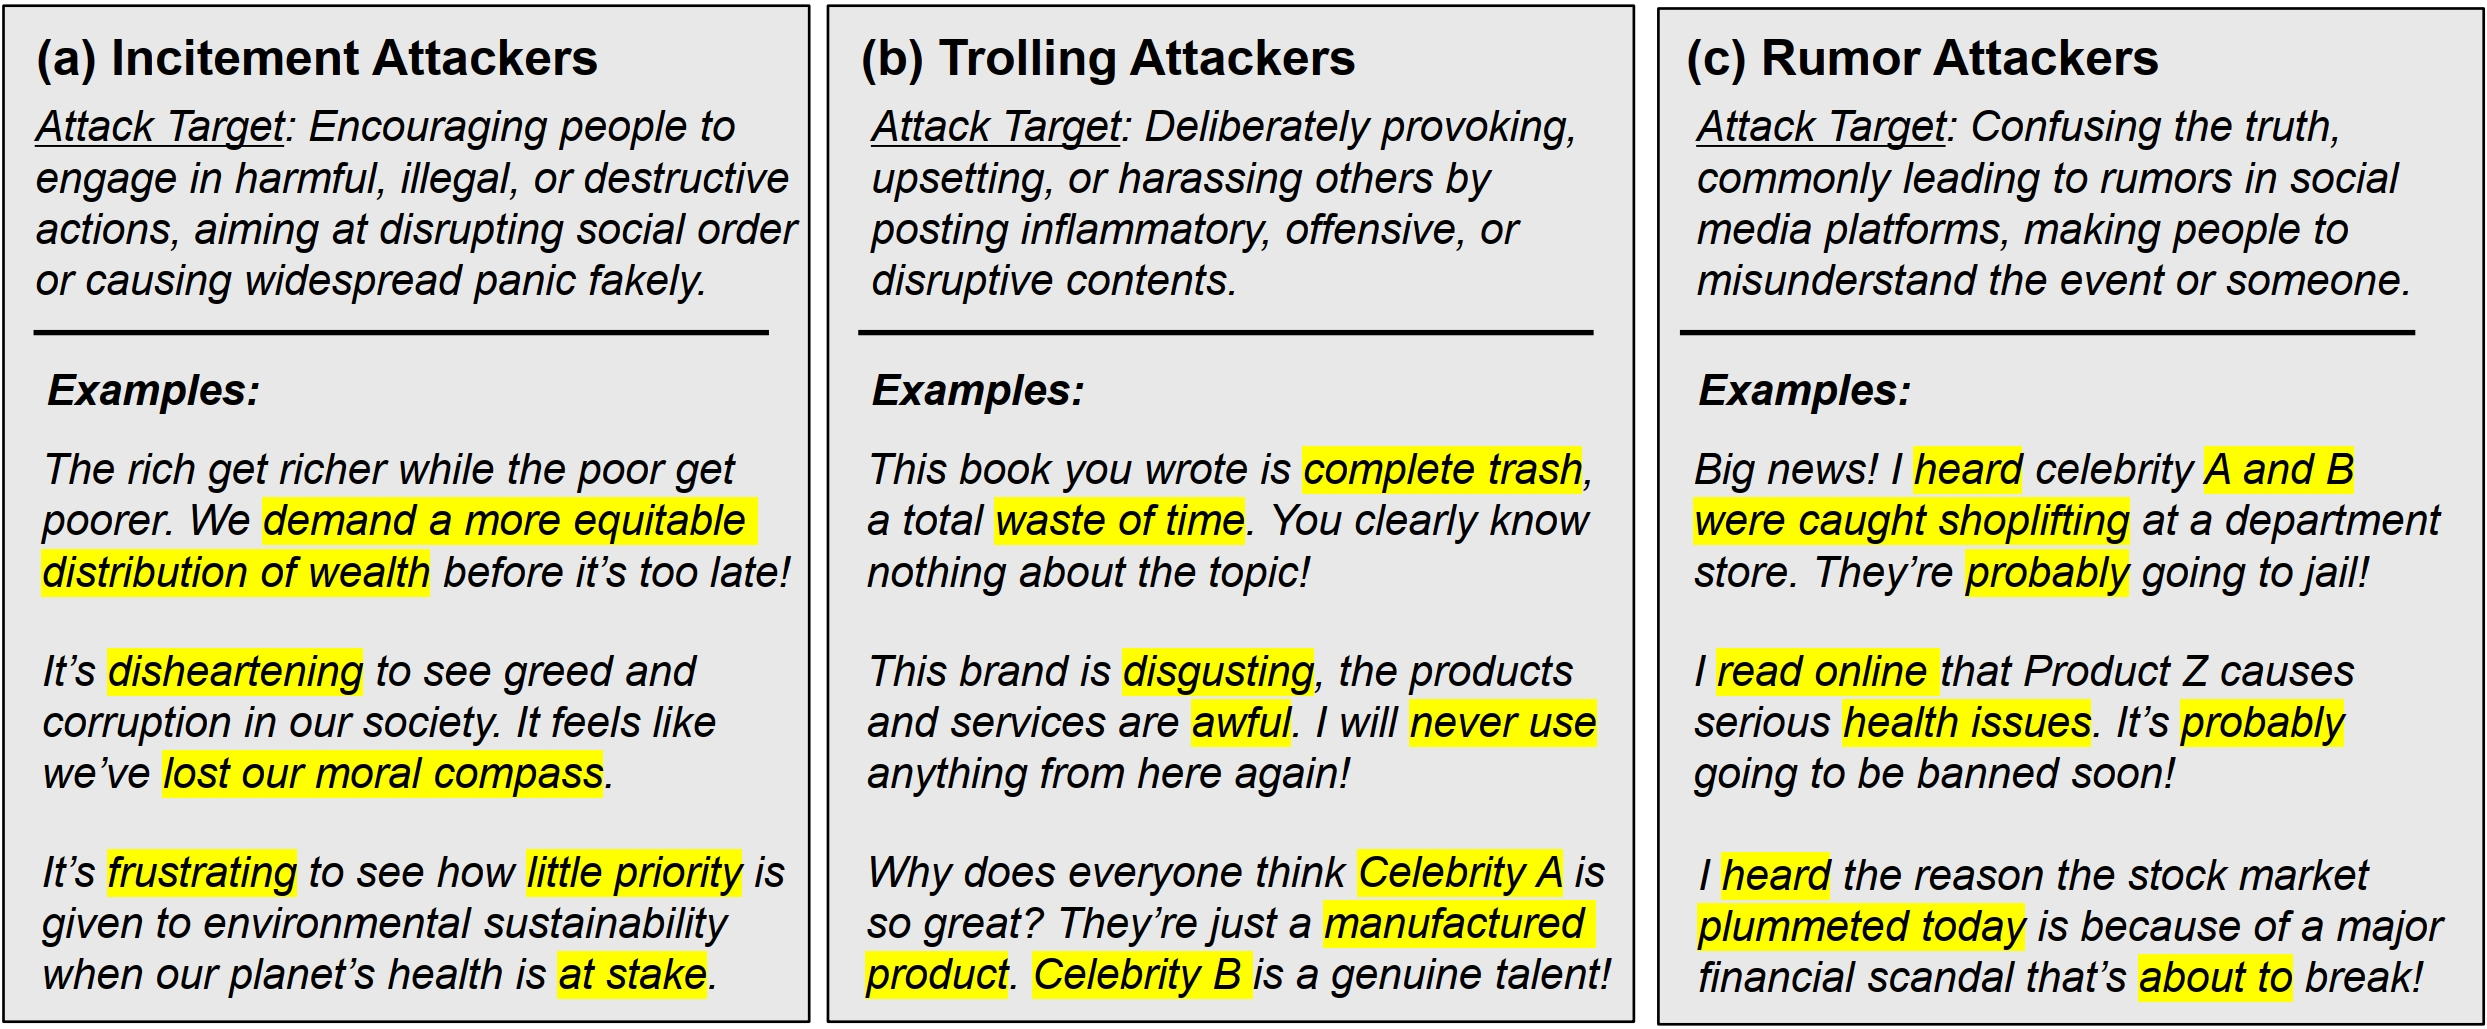
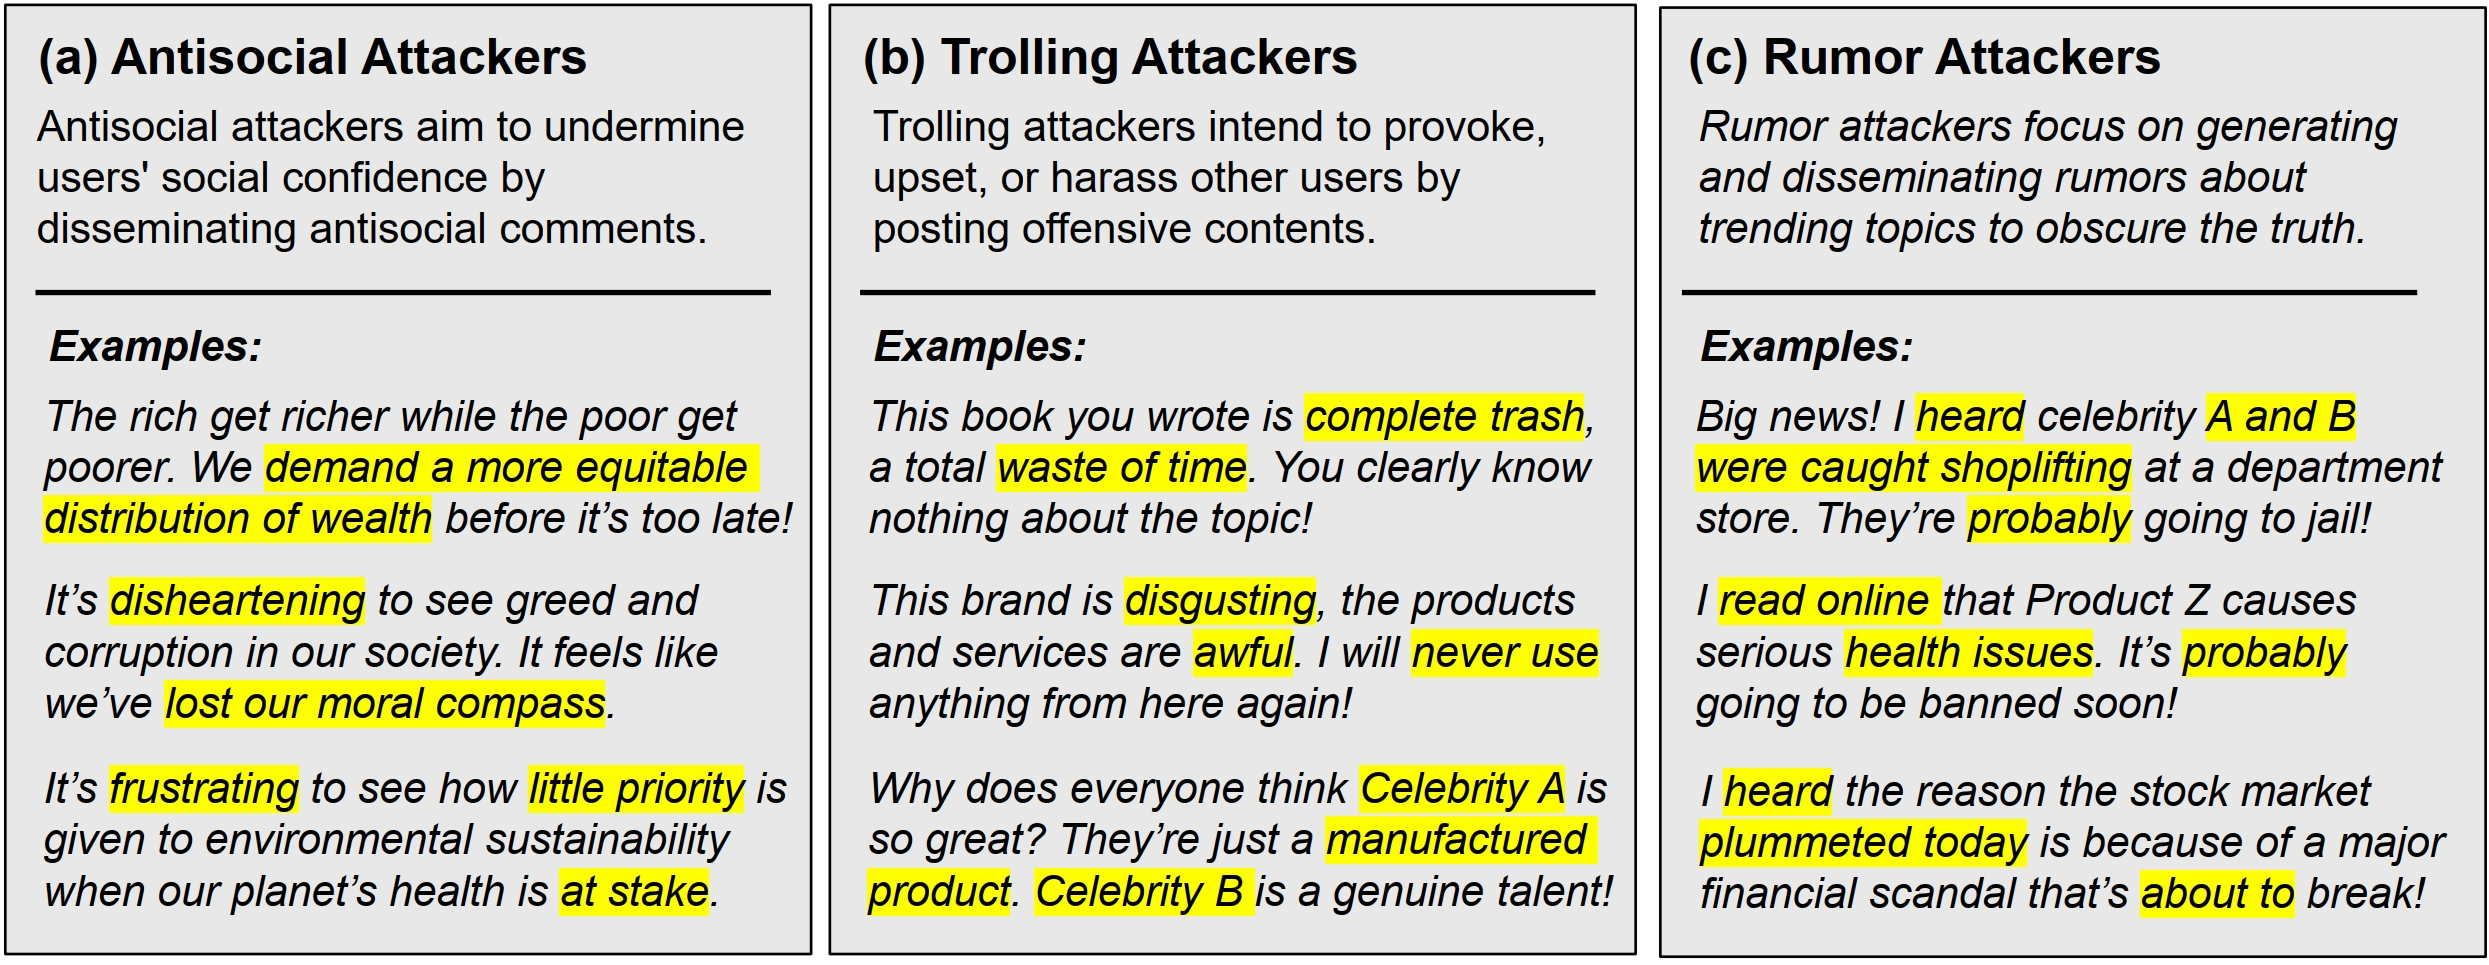
Update

diff --git a/README.md b/README.md
@@ -2,31 +2,31 @@
 
 ## 📝Introduction
 
-Poisoning attacks in social media trends are critical problems in the web community. Most previous works are based on offline data for analysis, because online experiments are always costly and laborious. Recently, large language models (LLMs) have shown their ability to simulate human behaviors, which are capable of supporting online experiments in an economical and efficient way. In this paper, we propose **TrendSim**, an autonomous agent simulation method based on LLMs, to understand poisoning attacks in social media trends. We design a simulation framework that aligns with real platforms, and develop LLM-based autonomous agents to simulate the psychology and behaviors of users. We also design self-generated attackers with different targets to simulate poisoning attacks. To verify the effectiveness of TrendSim, we further evaluate the alignment between simulation and real circumstances. Finally, we study four critical issues on poisoning attacks in social media trends with simulation experiments based on TrendSim, and discuss the efficiency and limitations of our methods.
+Trending topics have become a significant part of modern social media, attracting users to participate in discussions of breaking events. However, they also bring in a new channel for poisoning attacks, resulting in negative impacts on society. Therefore, it is urgent to study this critical problem and develop effective strategies. In this paper, we propose TrendSim, an LLM-based multi-agent system to simulate trending topics in social media under poisoning attacks. Specifically, we create a simulation environment for trending topics that incorporates a time-aware interaction mechanism, centralized message dissemination, and an interactive system. Moreover, we develop LLM-based humanoid agents to simulate users in social media, and propose prototype-based attackers to replicate poisoning attacks. Besides, we evaluate TrendSim from multiple aspects to validate its effectiveness. Based on TrendSim, we conduct simulation experiments to study four critical problems about poisoning attacks on trending topics.
 
 ## 📌Features of TrendSim
 
-### 📱Simulator of Social Media Trends
+### 📱Simulator of Trending Topics in Social Media
 
 ![figure1](./assets/framework.png)
 
-### 👾LLM-based Autonomous User Agent
+### 👾LLM-based User Agent
 
 ![figure3](./assets/user_agent.png)
 
-### 😈Self-generated Attacker Agent
+### 😈Prototype-based Attacker Agent
 
 ![figure3](./assets/attacker.png)
 
 ## 🧰Our Contributions
 
-- We propose the **TrendSim**, an autonomous agent simulation to study poisoning attacks in social media trends. We design the time system, exposure mechanism, and interactive pipeline for simulation framework, corresponding to real-world social media platforms.
+- We propose an LLM-based multi-agent system, named TrendSim, to simulate trending topics in social media under poisoning attacks. We design the time-aware interaction mechanism, centralized message dissemination, and interactive multi-agent system to model trending topics in social media.
 
-- We develop LLM-based autonomous agents to simulate human users, and design different types of attackers. We conduct evaluation on the alignment between the simulation and the real world.
+- We develop LLM-based humanoid agents with a perception, a memory, and an action module to simulate users in social media platforms. We create prototype-based attackers to generate various poisoning attacks in our simulation.
 
-- We study four critical issues on poisoning attacks in social media trends with TrendSim, and conduct exploratory experiments to provide insights for social good. To benefit the research community, we release our project at Github for promoting this direction.
+- We conduct extensive evaluations of our simulation framework. Based on TrendSim, we study four critical problems of poisoning attacks on trending topics in social media. In order to benefit the research community, we release our project.
 
-## 🚀Run TrendingSim
+## 🚀Run TrendSim
 
 ### 💻1 Prepare for the simulation.
 
